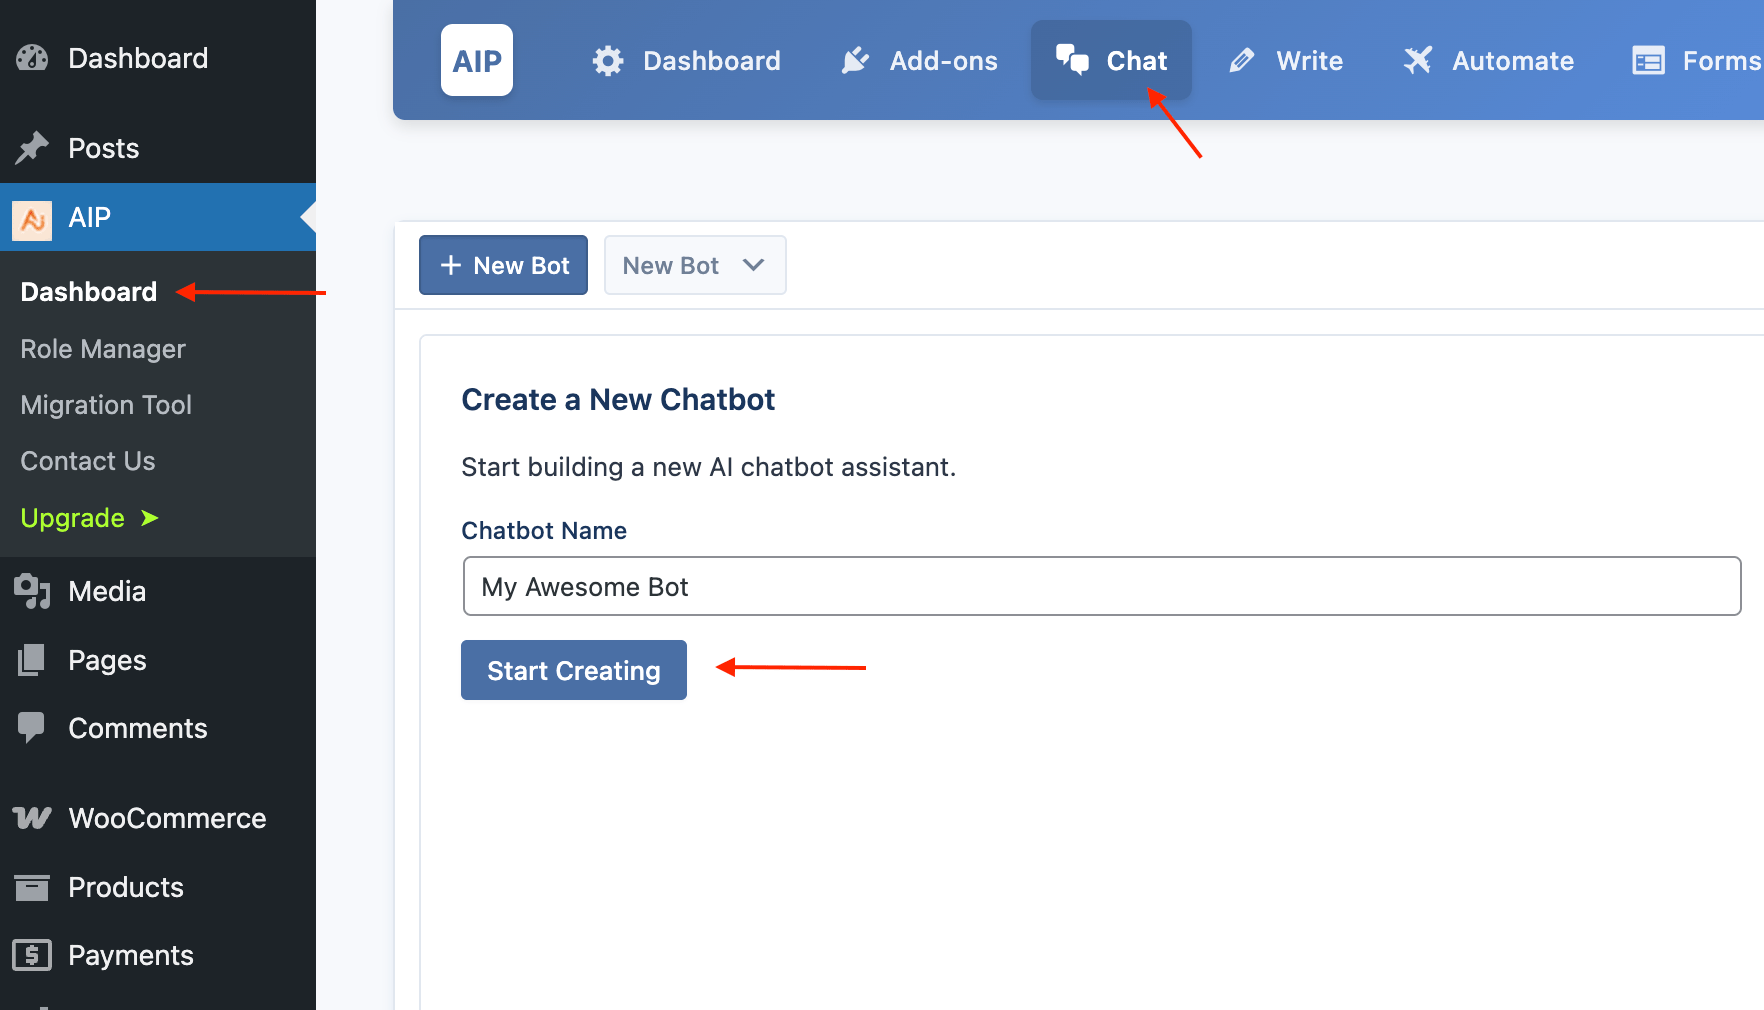
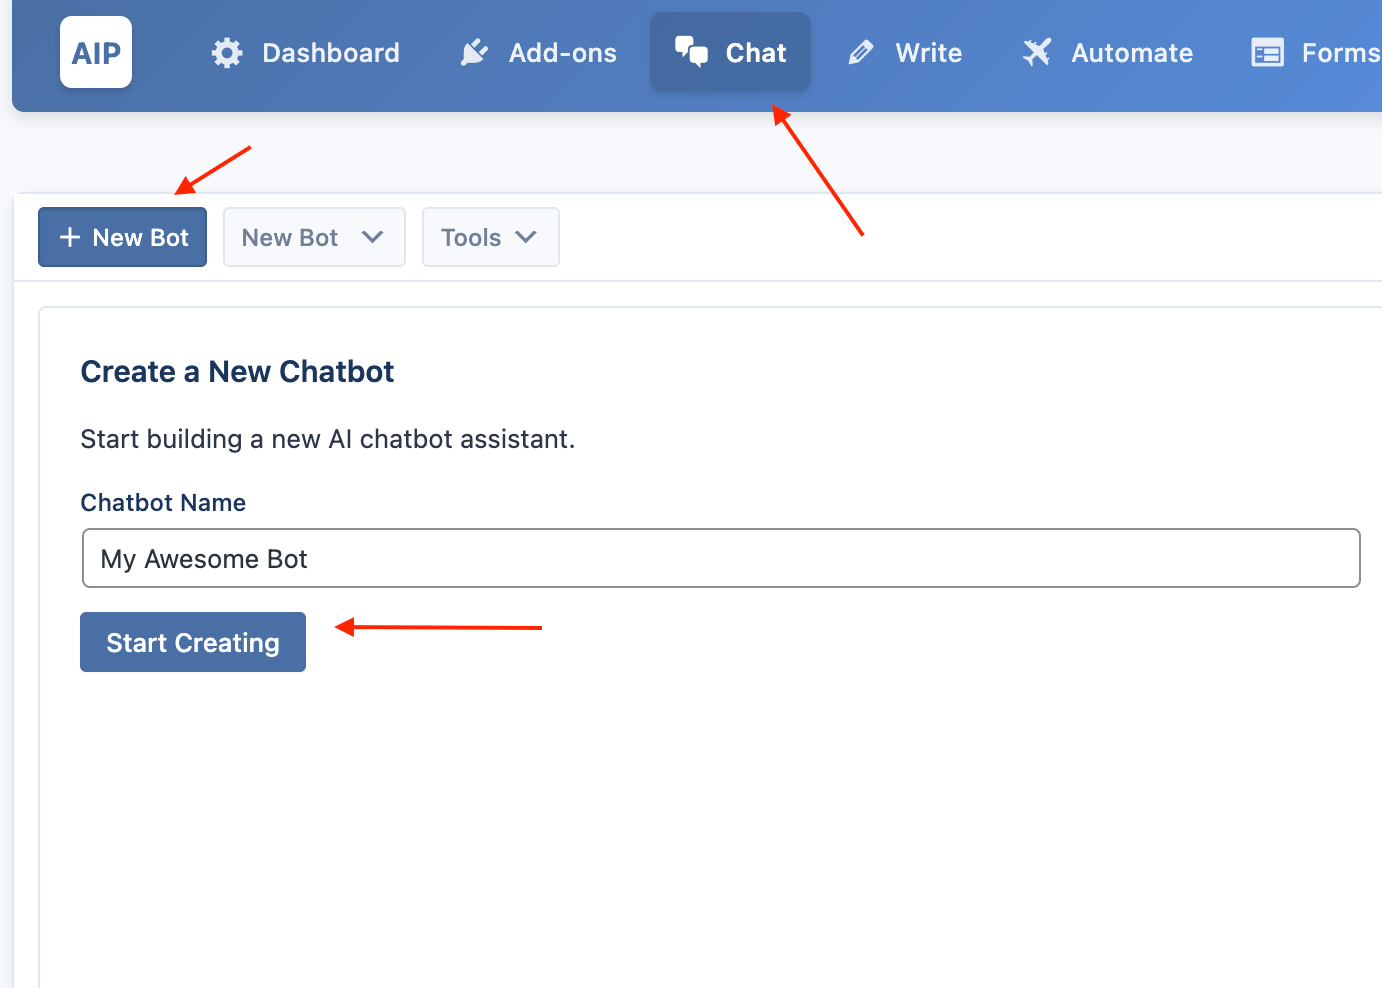
new chatsetting

Changed region(s): [[0.0, 0.0, 1.0, 1.0], [0.9645, 0.5466, 0.9957, 0.6073], [0.5912, 0.1822, 0.6223, 0.2429]]

diff --git a/docs/Chat/ai-configuration.md b/docs/Chat/ai-configuration.md
@@ -9,6 +9,7 @@ import aiconfig from '/img/chat/ai-config.png';
 import enginemodel from '/img/chat/engine-model.png';
 import instructions from '/img/chat/instructions.png';
 import parameters from '/img/chat/parameters.png';
+import parameters0 from '/img/chat/parameters0.png';
 import stateful from '/img/chat/stateful.png';
 import websearch from '/img/chat/web-search.png';
 import websearchdetails from '/img/chat/web-search-details.png';
@@ -16,10 +17,14 @@ import websearchdemo from '/img/chat/web-search-demo.png';
 import groundingmode from '/img/chat/grounding-mode.png';
 import dynamicretrival from '/img/chat/dynamic-retrival.png';
 import stream from '/img/chat/stream.png';
+import conversationconfigurebutton from '/img/chat/configure.png';
+import maxmessages from '/img/chat/max-messages.png';
+import reasoning from '/img/chat/reasoning.png';
 
 # AI Configuration
 
-The **General** section controls the "brain" of your chatbot—the AI model it uses, its core personality, and its fundamental parameters.
+The **Engine & Model** section controls the "brain" of your chatbot—the AI model it uses, its core personality, and its fundamental parameters.
+
 <img src={aiconfig} width="600" />
 
 ## Engine and Model
@@ -40,27 +45,35 @@ This field defines your chatbot's personality and purpose. It's a set of instruc
 **Example:**
 > You are a friendly and helpful customer support agent for a company named "AIP." Your goal is to answer questions about our products and help users troubleshoot common issues. Be polite and concise in your responses.
 
-You can use the placeholder `[date]` to automatically insert the current date into the prompt each time a conversation starts.
+You can use placeholders to automatically insert dynamic values into the prompt when a conversation starts. For example:
 
-## Stream Mode
-
-When enabled, the chatbot's response appears word-by-word, similar to how ChatGPT types. 
-
-<img src={stream} width="600" />
-
-This provides a faster perceived response time for the user. When disabled, the chatbot will "think" and then deliver the entire message at once.
+- [date] will insert the current date.
+- [username] will insert the current WordPress username.
 
 ## AI Parameters
 
 Click the <span class="dashicons dashicons-admin-generic"></span> icon next to the model selection to reveal the advanced AI parameters. These settings fine-tune how the AI generates its responses.
 
-<img src={parameters} width="600" />
+<img src={parameters0} />
+
+<img src={parameters} />
 
 -   **Temperature**: Controls the creativity of the AI. A higher value (e.g., `1.2`) results in more creative and varied responses. A lower value (e.g., `0.5`) makes the responses more focused and predictable. The default is `1.0`.
 -   **Max Tokens**: Sets the maximum length of the AI's response. A higher number allows for longer content but can increase API costs.
--   **Max Messages**: The number of previous messages from the current conversation to include as context for the AI. A higher number provides more context but uses more tokens.
 
-## Stateful Conversation
+## Conversations
+
+### Stream Mode
+
+When enabled, the chatbot's response appears word-by-word, similar to how ChatGPT types. 
+
+<img src={conversationconfigurebutton} />
+
+<img src={stream}  />
+
+This provides a faster perceived response time for the user. When disabled, the chatbot will "think" and then deliver the entire message at once.
+
+### Stateful Conversation
 
 This feature uses OpenAI's stateful conversation capabilities and it is only available when using OpenAI as the provider.
 
@@ -68,31 +81,51 @@ Instead of sending the entire chat history with each message, it only sends the 
 
 This reduces token usage and enables continuous conversations that can exceed normal token limits.
 
-<img src={stateful} width="600" />
+<img src={stateful} />
  
 The "Store Conversation" setting must be enabled in the main **AIP > Dashboard > OpenAI** settings.
+
+### Max Messages
+
+This setting limits how many previous messages are included in the context sent to the AI with each user message. A higher number provides more context but uses more tokens. The default is `15`.
+
+<img src={maxmessages} />
+
+### Reasoning
+
+When enabled, the AI is prompted to "think step-by-step" before answering. This can improve accuracy for complex questions.
+
+Only available with OpenAI's O and gpt-5 series models.
+
+<img src={reasoning} />
 
 ## Web Search
 
 This feature allows the chatbot to access external information to answer questions about recent events or topics outside its training data. The specific settings change depending on whether you are using an OpenAI or Google model.
 
+Web Search can be toggled and configured per provider from the AI tab.
+
 ### OpenAI Web Search
 
-When using an OpenAI model, enabling the Web Search tool <span class="dashicons dashicons-admin-site-alt3"></span> reveals two additional settings in the General tab:
+Where to find it:
 
-<img src={websearch} width="600" />
+AI tab → Features → Web Search (OpenAI) → toggle on, then click Configure.
 
-:::info Supported OpenAI Models
+<img src={websearch} />
+
+:::info
 Most recent OpenAI models support the Web Search. However, **gpt-4.1-nano** is currently not compatible with web search.
 
 :::
+
+When using an OpenAI model, enabling the Web Search tool reveals two additional settings:
 
 -   **Search Context Size**: Controls how much information the AI considers from its search results. It has three levels: Low, Medium (default), and High.
 -   **User Location**: Helps the AI provide more relevant local results.
     -   **None**: The AI does not consider the user's location.
     -   **Approximate**: When selected, you can provide location details to narrow down search results.
 
-<img src={websearchdetails} width="600" />
+<img src={websearchdetails} />
 
         -   **Country (ISO Code)**: A two-letter country code (e.g., `US` for United States).
         -   **City**: The name of a city (e.g., `London`).
@@ -103,7 +136,7 @@ Most recent OpenAI models support the Web Search. However, **gpt-4.1-nano** is c
 
 When using a compatible Google model, enabling web search adds grounding capabilities.
 
-<img src={groundingmode} width="600" />
+<img src={groundingmode} />
 
 :::info Supported Google Models
 The following Google Gemini models support **Search Grounding** in the chatbot:
@@ -123,7 +156,7 @@ The following settings will appear:
     -   **Model Decides (Default)**: The AI determines when to use search as a tool to answer a query.
     -   **Dynamic Retrieval (Gemini 1.5 Flash only)**: The model dynamically grounds its response in search results based on a relevance score.
 
-<img src={dynamicretrival} width="600" />
+<img src={dynamicretrival}  />
 
 -   **Dynamic Retrieval Threshold**: This slider (from `0.0` to `1.0`) appears when "Dynamic Retrieval" is selected. It sets the relevance threshold for including search results. A higher value requires a stronger match between the user's query and the search results.
 

diff --git a/docs/Chat/create-chatbot.md b/docs/Chat/create-chatbot.md
@@ -15,7 +15,6 @@ import shortcodepill from '/img/chat/shortcode-pill.png';
 import shortcodeinsert from '/img/chat/shortcode-insert.png';
 import popupenable from '/img/chat/popup-enable.png';
 import popupsettings from '/img/chat/popup-settings.png';
-import popupurl from '/img/chat/popup-url.png';
 import embedaddon from '/img/chat/embed-addon.png';
 import embedsettings from '/img/chat/embed-settings.png';
 
@@ -90,42 +89,40 @@ A popup chatbot appears as a small, clickable icon in a corner of the screen on 
 
 To enable popup mode:
 
-1.  In your chatbot's settings, go to the **Appearance** section.
-2.  Check the **Popup** box.
+1.  In your chatbot’s settings, open the **Style** tab.
+2.  Check the Popup toggle.
 
 <img src={popupenable} />
 
-3.  New settings for the popup will appear in the **Popup** accordion.
+3. Click the Configure button to open the popup settings.
 
 #### Popup Settings
 
 -   **Popup Position**: Choose which corner of the screen the popup icon and window will appear in (e.g., Bottom Right).
 -   **Popup Delay (sec)**: Set a delay in seconds before the chat window automatically opens for the first time for a visitor. Set to `0` to disable auto-opening.
 
-<img src={popupsettings} width="600" />
+<img src={popupsettings} />
 
 -   **Site-wide**: If enabled, this chatbot popup will appear on every page of your website. **Only one chatbot can be set to site-wide at a time.**
 -   **Popup Icon**: Customize the appearance of the popup trigger button. You can choose from one of three default icons or provide a URL to your own custom image.
-
-<img src={popupurl} width="600" />
+-   **Popup Hint**: Optionally show a short hint above the icon. Configure text, when it shows (on delay, until open, etc.), auto-hide timing, and desktop/mobile visibility.
 
 ### Embed Anywhere (External Sites)
 
-
 This feature allows you to embed your chatbot on any other website, even if it's not running on WordPress.
 
-:::tip Watch the Video Tutorial
+:::tip
 <iframe width="560" height="315" src="https://www.youtube.com/embed/Im4GTxuNutE" title="How to Embed Your Bot on an External Site" frameborder="0" allowfullscreen></iframe>
 :::
 
-:::info This is a Pro Feature
+:::info
 To use this feature, you need a Pro plan and the **Embed Anywhere** addon must be enabled from the **AIP > Add-ons** page.
 <img src={embedaddon} />
 :::
 
 #### How to Enable & Configure
 
-1.  In your chatbot's settings, find and expand the **Embed** accordion.
+1.  In the chatbot editor, open the Embed tab.
 2.  **Allowed Domains**: For security, you must list the domains where you plan to embed the chatbot. Enter one domain per line (e.g., `https://my-other-website.com`). Requests from any other domain will be blocked.
 
 <img src={embedsettings} />
@@ -137,21 +134,25 @@ The chatbot will now appear on that external site, with the same appearance and 
 
 ## The Chatbot Editor
 
-The editor is split into two main columns:
+The editor has two main columns:
 
-*   **Left Column (Settings)**: This is where you configure everything about your chatbot. The settings are organized into collapsible sections called accordions (e.g., General, Appearance, Context).
+*   **Left Column (Settings)**: Settings are organized under a segmented header:
+
+- **AI**: Engine & Model, Instructions, Context/Vector Store, Images, Audio (voice), Token limits, and more. Many options open as modals via Configure buttons.
+- **Style**: UI options like theme, conversation starters, fullscreen, feedback, sidebar, and Popup (with a Configure button for popup details).
+- **Optional tabs**: Embed, Triggers.
 
 <img src={chatbotsettings} />
 
-*   **Right Column (Preview)**: This area shows a live preview of your chatbot. As you change settings and click the **Save** button, the preview will update to reflect your changes.
+*   **Right Column (Preview)**: Live preview updates after you click Save.
 
 ## Saving, Deleting, and Resetting
 
 At the bottom of the settings area for each chatbot, you will find three action buttons:
 
-*   **Save**: Saves your current configuration for the chatbot.
-*   **Delete**: Permanently deletes the chatbot. This action cannot be undone. You will be asked for confirmation. The "Default Bot" cannot be deleted.
+*   **Save**: Use the Save button at the top right of the settings header.
+*   **Delete**: Open the Tools dropdown (next to the bot selector). Delete removes the bot (Default Bot cannot be deleted).
 
 <img src={savedeletereset} />
 
-*   **Reset**: Reverts all settings for the selected chatbot back to their original default values. This is useful if you want to start over with a clean configuration.
+*   **Reset**: Open the Tools dropdown (next to the bot selector). Reset restores all settings to defaults.

diff --git a/docs/Chat/appearance.md b/docs/Chat/appearance.md
@@ -48,6 +48,44 @@ You can reset all custom theme settings by clicking the **Reset** button at the 
 
 - **Footer**: A small line of text displayed at the very bottom of the chat window (e.g., "Powered by AI").
 
+## Popup
+
+Configure the floating trigger button and popup behavior. These settings are available when Popup mode is enabled.
+
+- Position: Choose where the trigger appears (Bottom Right, Bottom Left, Top Right, Top Left).
+- Popup Delay (sec): Automatically opens the popup after the specified delay (0 disables auto-open).
+
+**Trigger Icon**
+
+- Icon Style: Circle, Square, or None (uses your original image without background).
+- Icon Type: Default
+- Icons: Choose Chat Bubble, Plus, or Question Mark.
+- Custom URL: Provide a direct URL to your image (e.g., PNG/SVG). Recommended size ~32×32.
+- Colors: The icon background and icon color adapt to your theme (and custom theme variables).
+
+**Popup Hint (Text Above Icon)**
+
+Displays a small, theme-adaptive pill above the trigger to encourage interaction.
+
+- Enable Popup Hint: Turns the hint on/off.
+- Hint Text: Short, plain text message. If left empty, a default message is used (“Need help? Ask me!”).
+- Show Mode:
+    - On delay (once): Shows once after the delay, then hides.
+    - Until chat opened: Stays visible until the user opens the popup (or the popup auto-opens).
+    - Until dismissed: Stays visible until the user clicks the × (dismiss).
+    - Always: Reappears after close; useful for persistent prompting.
+- Delay (sec): Time to wait before showing the hint. Use 0 to show immediately.
+- Auto-hide (sec): Time until the hint hides itself. Use 0 to keep it visible until opened/dismissed.
+- Dismissible: Adds a small × button to dismiss the hint.
+- Frequency:
+    - Once per visitor: Shows once across visits (persists in the browser).
+    - Once per session: Resets on each new browser session.
+    - Always: Ignores past views and shows per the Show Mode.
+- Device Visibility: Show on Desktop and/or Show on Mobile.
+- Label Version: Increment this to re-show the hint for everyone after changing the message.
+
+The hint adapts to your theme (including custom theme).
+
 ## Fullscreen
 
 Adds a button to the chat header allowing users to expand the chat to fill the screen.
